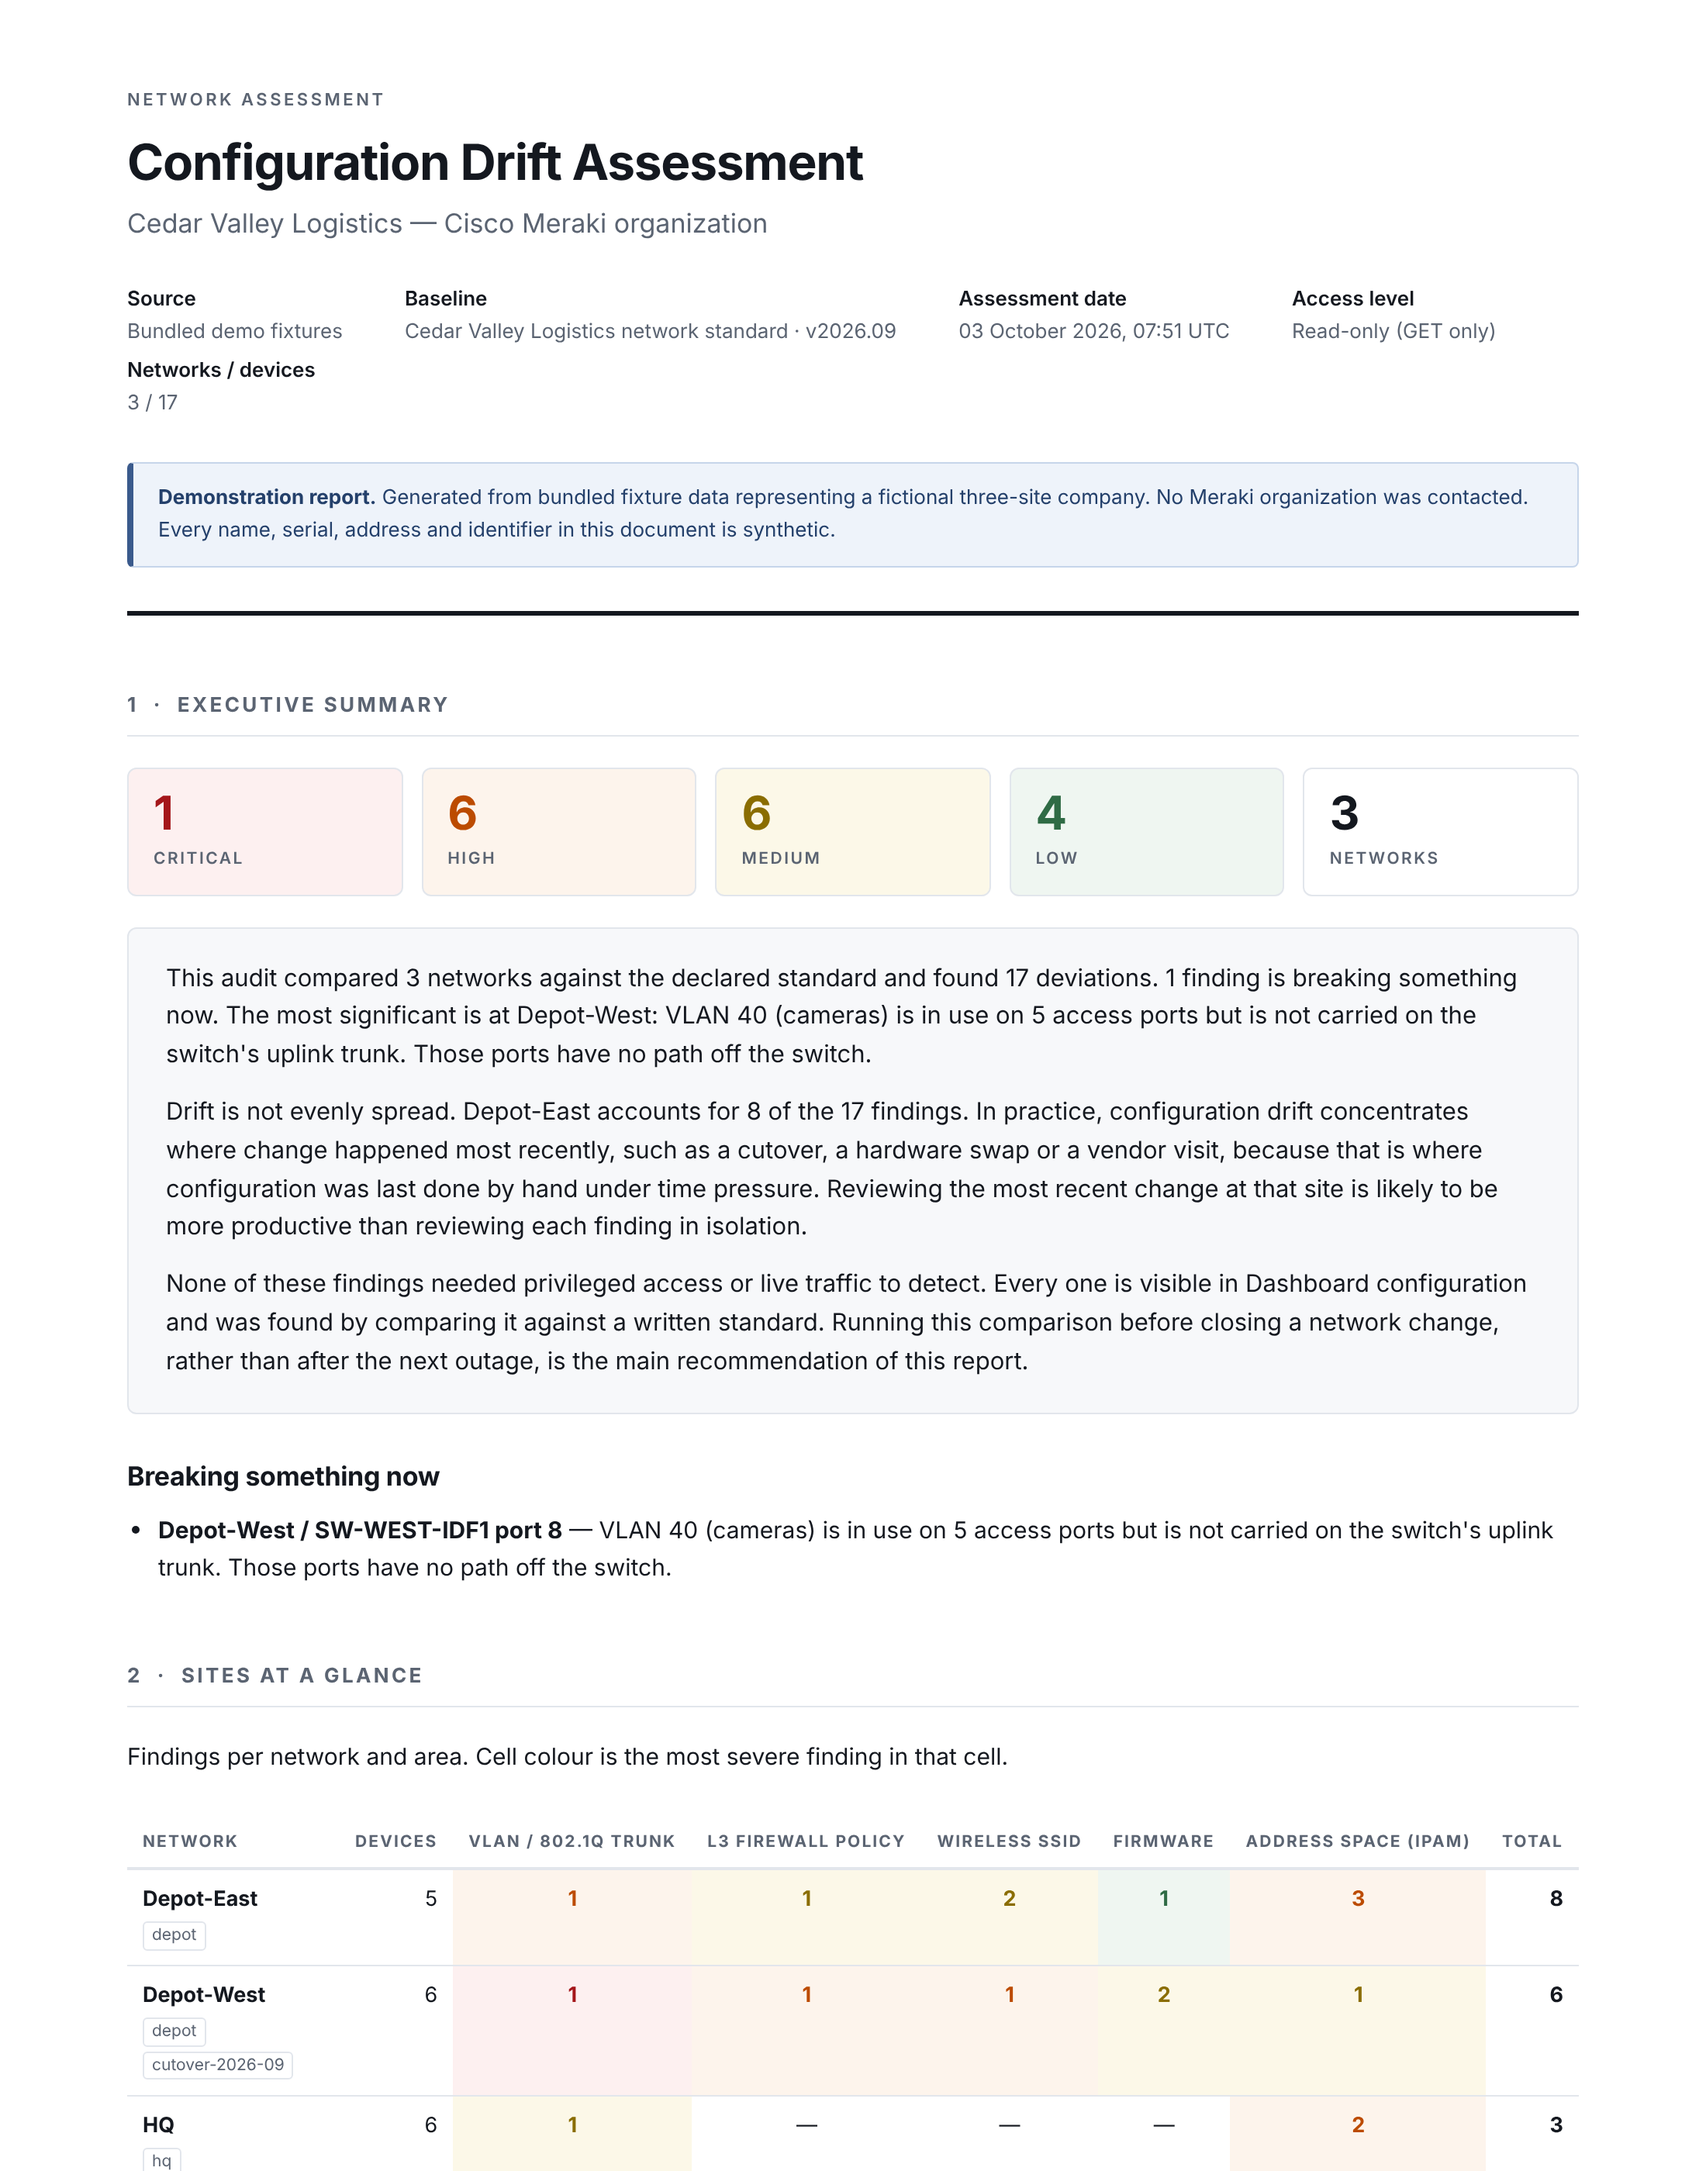
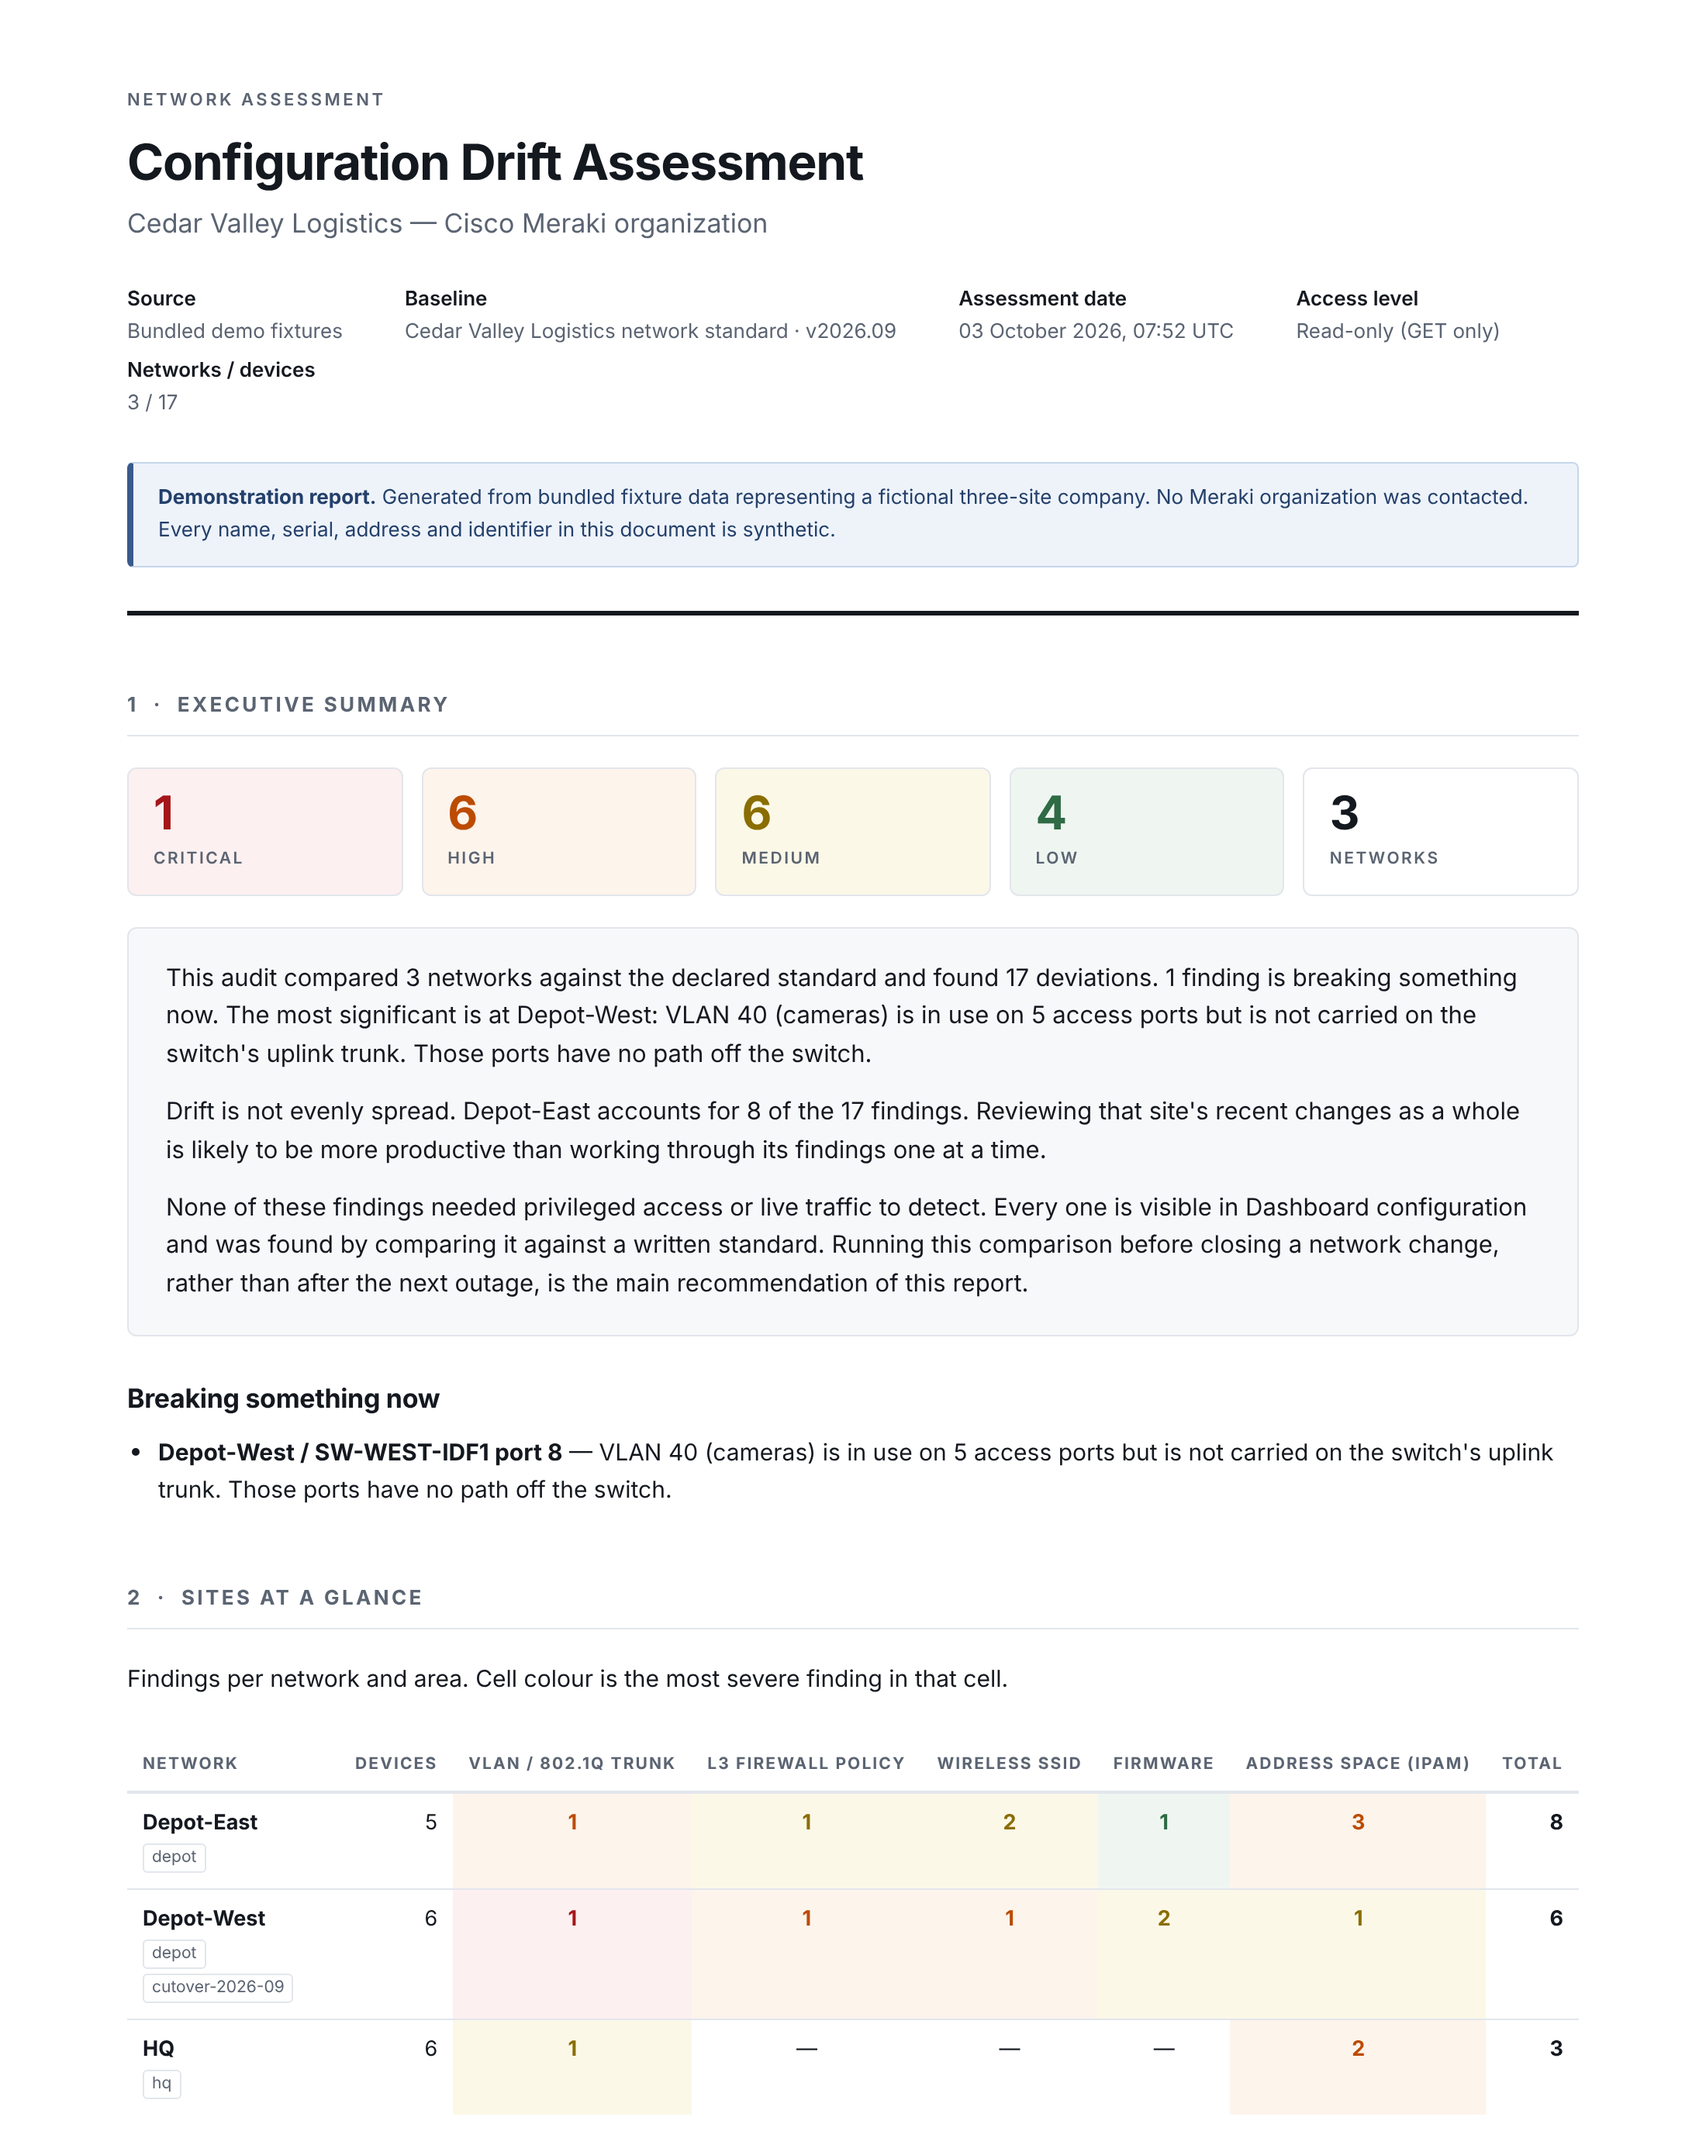
Keep the report verdict to what the data shows
The concentration paragraph named the busiest site and then attributed
it to 'a cutover, a hardware swap or a vendor visit'. With IPAM findings
added, the busiest demo site is the slow-drift one, not the one that was
cut over, so the explanation was wrong. It now states the share and
suggests reviewing that site's changes together, without asserting why.

Claude-Session: https://claude.ai/code/session_011vXoJnw7tZ4ya5zpNEes1d

diff --git a/reports/sample_report.html b/reports/sample_report.html
@@ -122,7 +122,7 @@ footer { margin-top: 56px; padding-top: 20px; border-top: 1px solid var(--line);
   <div class="meta">
     <div><strong>Source</strong><br>Bundled demo fixtures</div>
     <div><strong>Baseline</strong><br>Cedar Valley Logistics network standard &middot; v2026.09</div>
-    <div><strong>Assessment date</strong><br>03 October 2026, 07:51 UTC</div>
+    <div><strong>Assessment date</strong><br>03 October 2026, 07:52 UTC</div>
     <div><strong>Access level</strong><br>Read-only (GET only)</div>
     <div><strong>Networks / devices</strong><br>3 / 17</div>
   </div>
@@ -145,7 +145,7 @@ footer { margin-top: 56px; padding-top: 20px; border-top: 1px solid var(--line);
 </div>
 
 <div class="verdict">
-<p>This audit compared 3 networks against the declared standard and found 17 deviations. 1 finding is breaking something now. The most significant is at Depot-West: VLAN 40 (cameras) is in use on 5 access ports but is not carried on the switch&#39;s uplink trunk. Those ports have no path off the switch.</p><p>Drift is not evenly spread. Depot-East accounts for 8 of the 17 findings. In practice, configuration drift concentrates where change happened most recently, such as a cutover, a hardware swap or a vendor visit, because that is where configuration was last done by hand under time pressure. Reviewing the most recent change at that site is likely to be more productive than reviewing each finding in isolation.</p><p>None of these findings needed privileged access or live traffic to detect. Every one is visible in Dashboard configuration and was found by comparing it against a written standard. Running this comparison before closing a network change, rather than after the next outage, is the main recommendation of this report.</p></div>
+<p>This audit compared 3 networks against the declared standard and found 17 deviations. 1 finding is breaking something now. The most significant is at Depot-West: VLAN 40 (cameras) is in use on 5 access ports but is not carried on the switch&#39;s uplink trunk. Those ports have no path off the switch.</p><p>Drift is not evenly spread. Depot-East accounts for 8 of the 17 findings. Reviewing that site&#39;s recent changes as a whole is likely to be more productive than working through its findings one at a time.</p><p>None of these findings needed privileged access or live traffic to detect. Every one is visible in Dashboard configuration and was found by comparing it against a written standard. Running this comparison before closing a network change, rather than after the next outage, is the main recommendation of this report.</p></div>
 
 <h3>Breaking something now</h3>
 <ul class="plain">
@@ -907,13 +907,13 @@ and belongs in the next change window.</p>
   <li><strong>Firewall shadowing is computed structurally.</strong> CIDR containment is
       evaluated exactly; VLAN object references and FQDNs are compared by equality,
       so overlap between differently-expressed objects can be missed.</li>
-<li>Depot-East VLAN 20 (Voice): DHCP is &#39;Relay DHCP to another server&#39;, so pool utilisation there can&#39;t be assessed from Dashboard.</li>  <li><strong>Point-in-time.</strong> This reflects configuration as of 03 October 2026, 07:51 UTC.</li>
+<li>Depot-East VLAN 20 (Voice): DHCP is &#39;Relay DHCP to another server&#39;, so pool utilisation there can&#39;t be assessed from Dashboard.</li>  <li><strong>Point-in-time.</strong> This reflects configuration as of 03 October 2026, 07:52 UTC.</li>
 </ul>
 
 <footer>
   Generated by <strong>meraki-config-auditor</strong> v0.3.0 &mdash; read-only
   Meraki configuration drift assessment.<br>
-  03 October 2026, 07:51 UTC &middot; demonstration data</footer>
+  03 October 2026, 07:52 UTC &middot; demonstration data</footer>
 
 </div>
 </body>

diff --git a/src/report.py b/src/report.py
@@ -182,12 +182,9 @@ def build_verdict(
         if top_n > second_n and top_n / len(findings) >= 0.4:
             paragraphs.append(
                 f"Drift is not evenly spread. {top} accounts for {top_n} of the "
-                f"{len(findings)} findings. In practice, configuration drift "
-                "concentrates where change happened most recently, such as a cutover, "
-                "a hardware swap or a vendor visit, because that is where configuration "
-                "was last done by hand under time pressure. Reviewing the most recent "
-                "change at that site is likely to be more productive than reviewing "
-                "each finding in isolation."
+                f"{len(findings)} findings. Reviewing that site's recent changes as a "
+                "whole is likely to be more productive than working through its "
+                "findings one at a time."
             )
 
     if findings:
